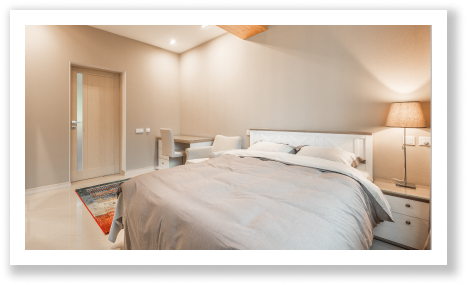
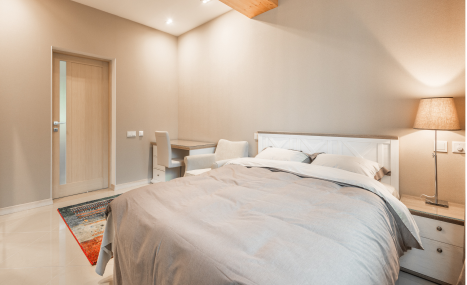
revise room images

diff --git a/css/room_style.css b/css/room_style.css
@@ -172,7 +172,8 @@ body{
     box-sizing: border-box;
 	overflow: hidden;
 	position: relative;
-    padding-top: 5px;
+    padding: 10px 10px 10px 10px;
+    border-radius: 15px;
 }
 
 .room_text{
